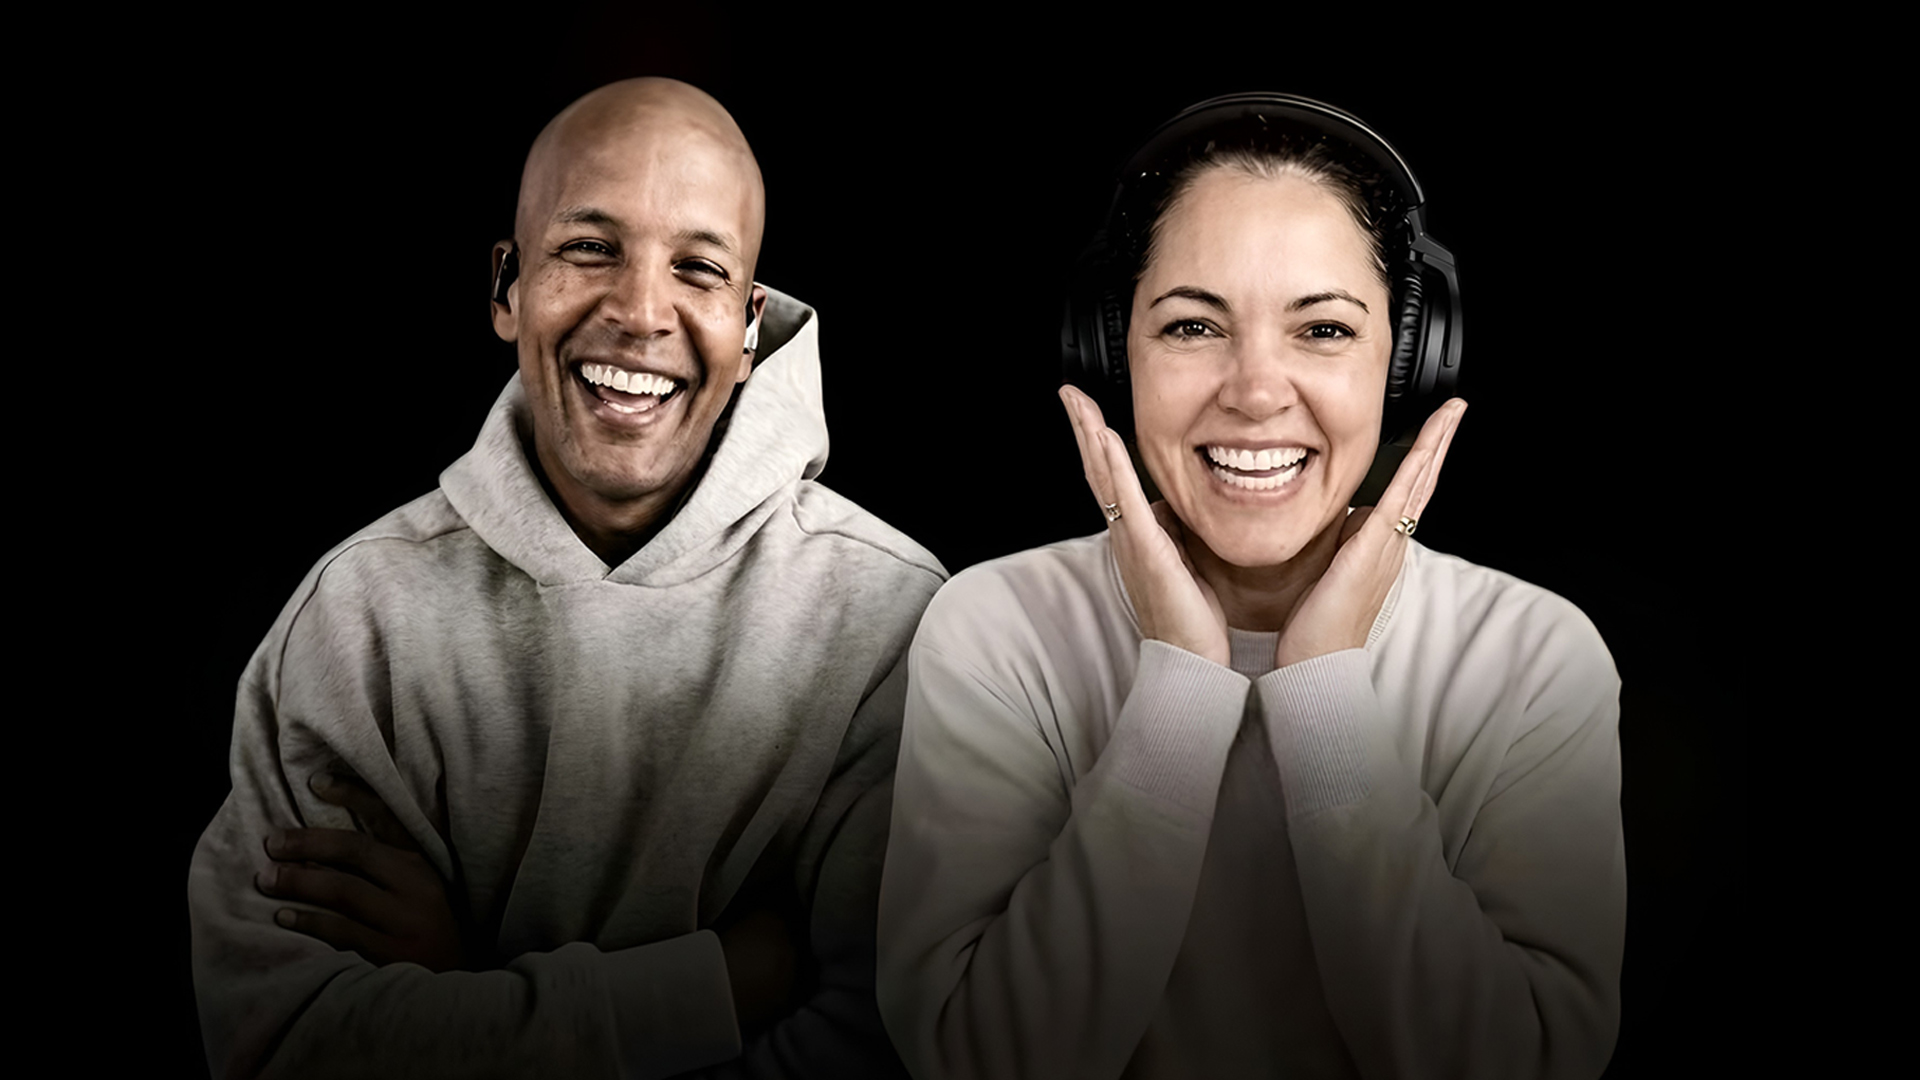
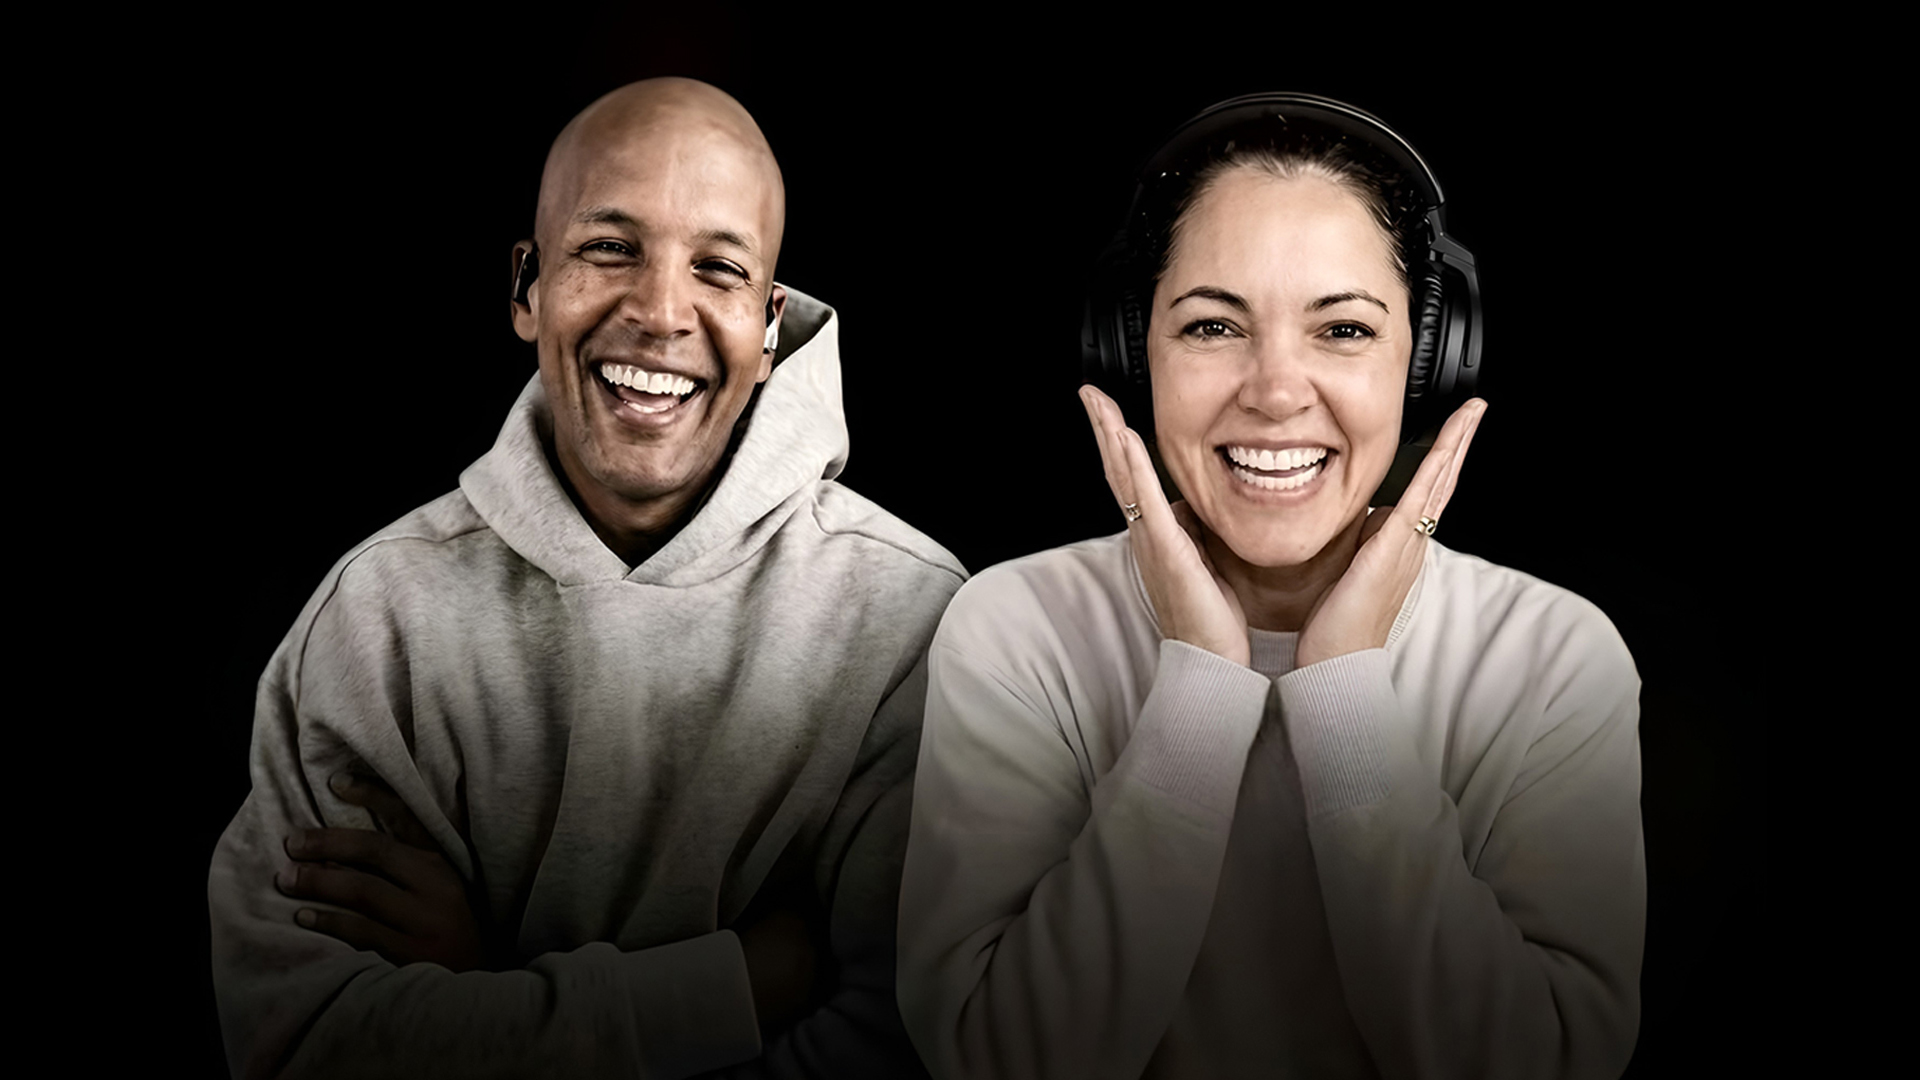
Update preview (built from silo-space-media-mockup a295403)

diff --git a/assets/css/site.css b/assets/css/site.css
@@ -1840,13 +1840,15 @@ button:hover .arrow {
   width: 100%;
   justify-content: center;
 }
-@media (min-width: 821px) {
+/* Two layouts: side by side (laptops, desktops, tablets held sideways) and one column (phones, small tablets and every
+   upright iPad: any upright screen up to 1100px wide). The two lists of screens below are exact opposites. */
+@media (min-width: 1101px), (min-width: 821px) and (orientation: landscape) {
   .form-card .btn {
     width: auto;
   }
 }
-/* laptops and up: one screen, no scrolling — less top padding, the card sits higher and is more compact */
-@media (min-width: 821px) {
+/* side by side: one screen, no scrolling — less top padding, the card sits higher and is more compact */
+@media (min-width: 1101px), (min-width: 821px) and (orientation: landscape) {
   .contact-page {
     padding-top: calc(var(--header-height) + clamp(20px, 3vh, 40px));
     padding-bottom: clamp(20px, 3vh, 40px);
@@ -1879,7 +1881,7 @@ button:hover .arrow {
   }
 }
 /* medium screens (tablet landscape / small laptops): give the form more than half the width */
-@media (min-width: 821px) and (max-width: 1199px) {
+@media (min-width: 1101px) and (max-width: 1199px), (min-width: 821px) and (max-width: 1199px) and (orientation: landscape) {
   .contact-page .contact-grid {
     grid-template-columns: minmax(0, 0.82fr) minmax(0, 1.18fr);
     gap: clamp(28px, 4vw, 56px);
@@ -1888,7 +1890,8 @@ button:hover .arrow {
     font-size: clamp(36px, 4.6vw, 56px);
   }
 }
-@media (max-width: 820px) {
+/* one column */
+@media (max-width: 820px), (max-width: 1100px) and (orientation: portrait) {
   .contact-grid {
     grid-template-columns: 1fr;
   }
@@ -3037,11 +3040,20 @@ button:hover .arrow {
   grid-auto-flow: column;
   grid-auto-columns: minmax(0, 1fr);
 }
+.podcast-hero .meta-episodes {
+  justify-content: center;
+}
+.podcast-hero .meta-social {
+  justify-content: flex-end;
+}
 /* where the details row drops to two columns (see .meta-row in project-page.css), only Episodes and
    Find us on are shown, so it stays one line */
 @media (max-width: 820px) {
   .podcast-hero .meta-hosts {
     display: none;
+  }
+  .podcast-hero .meta-episodes {
+    justify-content: flex-start;
   }
 }
 /* YouTube and the show's social accounts: plain white icons, the height of the text beside them */
@@ -3060,13 +3072,13 @@ button:hover .arrow {
   opacity: 1;
 }
 .podcast-hero .meta-icon-links svg {
-  width: 19px;
-  height: 19px;
+  width: 22px;
+  height: 22px;
 }
 /* the YouTube mark is wide and short, so it gets a little more width to look the same size */
 .podcast-hero .meta-icon-links a[aria-label*='YouTube'] svg {
-  width: 24px;
-  height: 24px;
+  width: 28px;
+  height: 28px;
 }
 /* phones: bigger icons, each with a tap area of at least 44px (the padding is cancelled by the negative margin, so
    the icons stay in line with the text and the spacing between them looks the same) */
@@ -3559,8 +3571,8 @@ button:hover .arrow {
   opacity: 1;
 }
 .host .host-social svg {
-  width: 19px;
-  height: 19px;
+  width: 22px;
+  height: 22px;
 }
 .host .host-social-below {
   display: none;
@@ -3658,6 +3670,10 @@ button:hover .arrow {
   }
 }
 
+.podcast-services .feature-photo img {
+  object-fit: contain;
+  background-color: black;
+}
 /* "What we do" (podcasts page): calmer heading and a taller mic photo on laptops/desktops; phones unchanged */
 .podcast-services .feature-text h2 {
   font-size: clamp(40px, 5.6vw, 52px);
@@ -3673,15 +3689,13 @@ button:hover .arrow {
 }
 @media (min-width: 1024px) {
   .podcast-services .feature-photo img {
-    aspect-ratio: 2/3;
+    aspect-ratio: 2/3.5;
   }
 }
-/* in the tall 2:4 box the photo zooms out to its full width; the extra height is black, matching the photo's own backdrop */
 @media (min-width: 861px) and (max-width: 1023px) {
   .podcast-services .feature-photo img {
     aspect-ratio: 2/4;
-    object-fit: contain;
-    background: #000;
+    object-position: center;
   }
 }
 @media (min-width: 1024px) and (max-width: 1199px) {

diff --git a/podcasts/spouseology/index.html b/podcasts/spouseology/index.html
@@ -73,8 +73,8 @@
 <p class="subtitle">A candid look at modern marriage</p>
       <div class="meta-row">
 <div class="meta-hosts"><span class="label muted">Hosts</span><span>Susie Castillo &amp; Santi DeOleo</span></div>
-        <div><span class="label muted">Episodes</span><span id="episode-count">…</span></div>
-        <div><span class="label muted">Find us on</span><span class="meta-icon-links">
+        <div class="meta-episodes"><span class="label muted">Episodes</span><span id="episode-count">…</span></div>
+        <div class="meta-social"><span class="label muted">Find us on</span><span class="meta-icon-links">
           <a href="https://www.youtube.com/@SpouseologyPod" target="_blank" rel="noopener" aria-label="Watch Spouseology on YouTube"><svg viewBox="0 0 24 24" aria-hidden="true"><path fill="currentColor" fill-rule="evenodd" d="M21.6 7.2a2.5 2.5 0 0 0-1.8-1.8C18.2 5 12 5 12 5s-6.2 0-7.8.4a2.5 2.5 0 0 0-1.8 1.8C2 8.8 2 12 2 12s0 3.2.4 4.8a2.5 2.5 0 0 0 1.8 1.8c1.6.4 7.8.4 7.8.4s6.2 0 7.8-.4a2.5 2.5 0 0 0 1.8-1.8c.4-1.6.4-4.8.4-4.8s0-3.2-.4-4.8zM10 15V9l5.2 3z"></path></svg></a><a href="https://www.instagram.com/spouseologypod/" target="_blank" rel="noopener" aria-label="Spouseology on Instagram"><svg viewBox="0 0 24 24" aria-hidden="true"><rect x="3" y="3" width="18" height="18" rx="5" fill="none" stroke="currentColor" stroke-width="1.8"></rect><circle cx="12" cy="12" r="4.2" fill="none" stroke="currentColor" stroke-width="1.8"></circle><circle cx="17.4" cy="6.6" r="1.2" fill="currentColor"></circle></svg></a><a href="https://www.tiktok.com/@spouseologypod" target="_blank" rel="noopener" aria-label="Spouseology on TikTok"><svg viewBox="0 0 24 24" aria-hidden="true"><path fill="currentColor" d="M16.2 2.5c.4 2.4 2 4.1 4.6 4.3v3.5c-1.7 0-3.3-.5-4.6-1.4v6.7a6.3 6.3 0 1 1-6.3-6.3c.3 0 .6 0 .9.1v3.6a2.8 2.8 0 1 0 1.9 2.6V2.5h3.5z"></path></svg></a>        </span></div>
       </div>
     </div>

diff --git a/projects/ne-academy-of-gymnastics/index.html b/projects/ne-academy-of-gymnastics/index.html
@@ -78,7 +78,7 @@
   <section class="band" style="padding-bottom:0"><div class="wrap video-block">
     <div class="player player-landscape"><video preload="none" playsinline="" poster="/silo-space-media/assets/images/projects/ne-academy-of-gymnastics/film-poster.jpg" src="/silo-space-media/assets/videos/projects/ne-academy-of-gymnastics/film.mp4"></video>
      <button class="play-button" aria-label="Play video"><span class="play-disc"><svg viewBox="0 0 24 24" fill="currentColor" aria-hidden="true"><path d="M6 3.5v17l14-8.5z"></path></svg></span></button>
-<div class="player-caption"><span class="label">Film · 16:9</span></div></div>
+<div class="player-caption"><span class="label">Film</span></div></div>
   </div></section>
 
 

diff --git a/assets/js/modules/scroll-reveal.js b/assets/js/modules/scroll-reveal.js
@@ -115,9 +115,10 @@ export function setUpScrollReveal() {
       return;
     } // pinned to the corner: fade in place, no slide
     if (element.matches('.service-card')) {
-      // fade the card face: fading the 3D card forces a full redraw
+      // reveal the card's front face (it fades and rises like everything else): animating the whole 3D card forces
+      // a full redraw, and the face has no transform of its own while the card is unflipped
       const front = element.querySelector('.service-card-front');
-      if (front) markForReveal(front, index, 'reveal-fade-pending');
+      if (front) markForReveal(front, index);
       return;
     }
     if (element.matches(STAGGERED_CONTAINERS) || isTallBlock(element))
